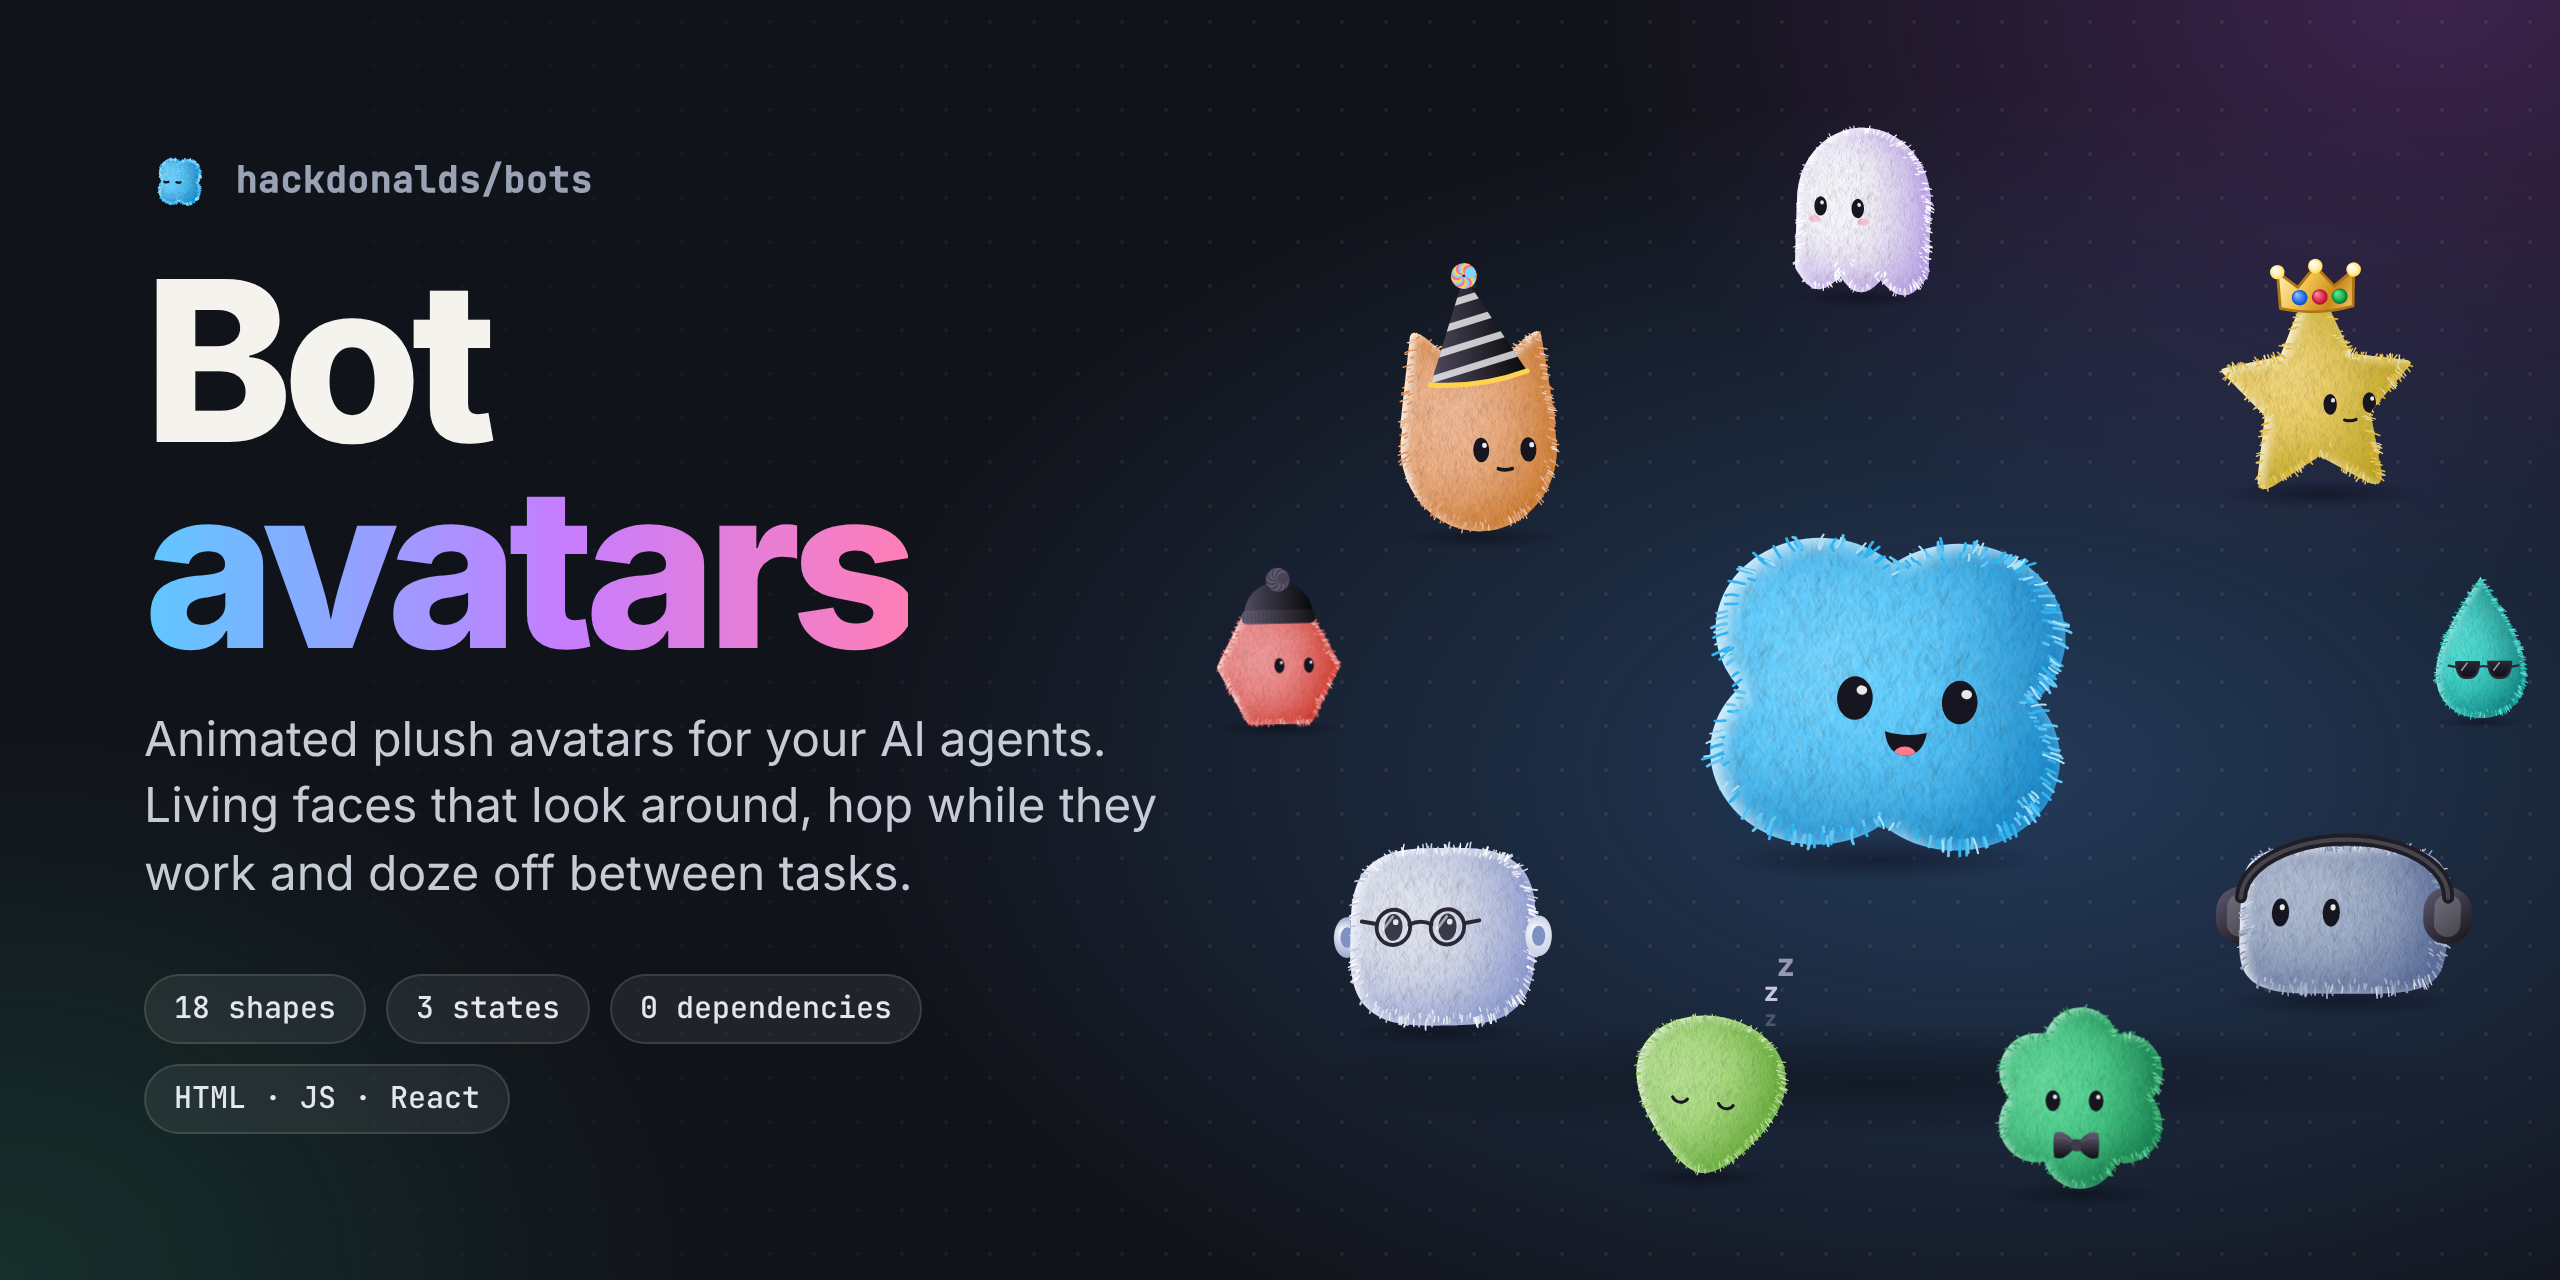
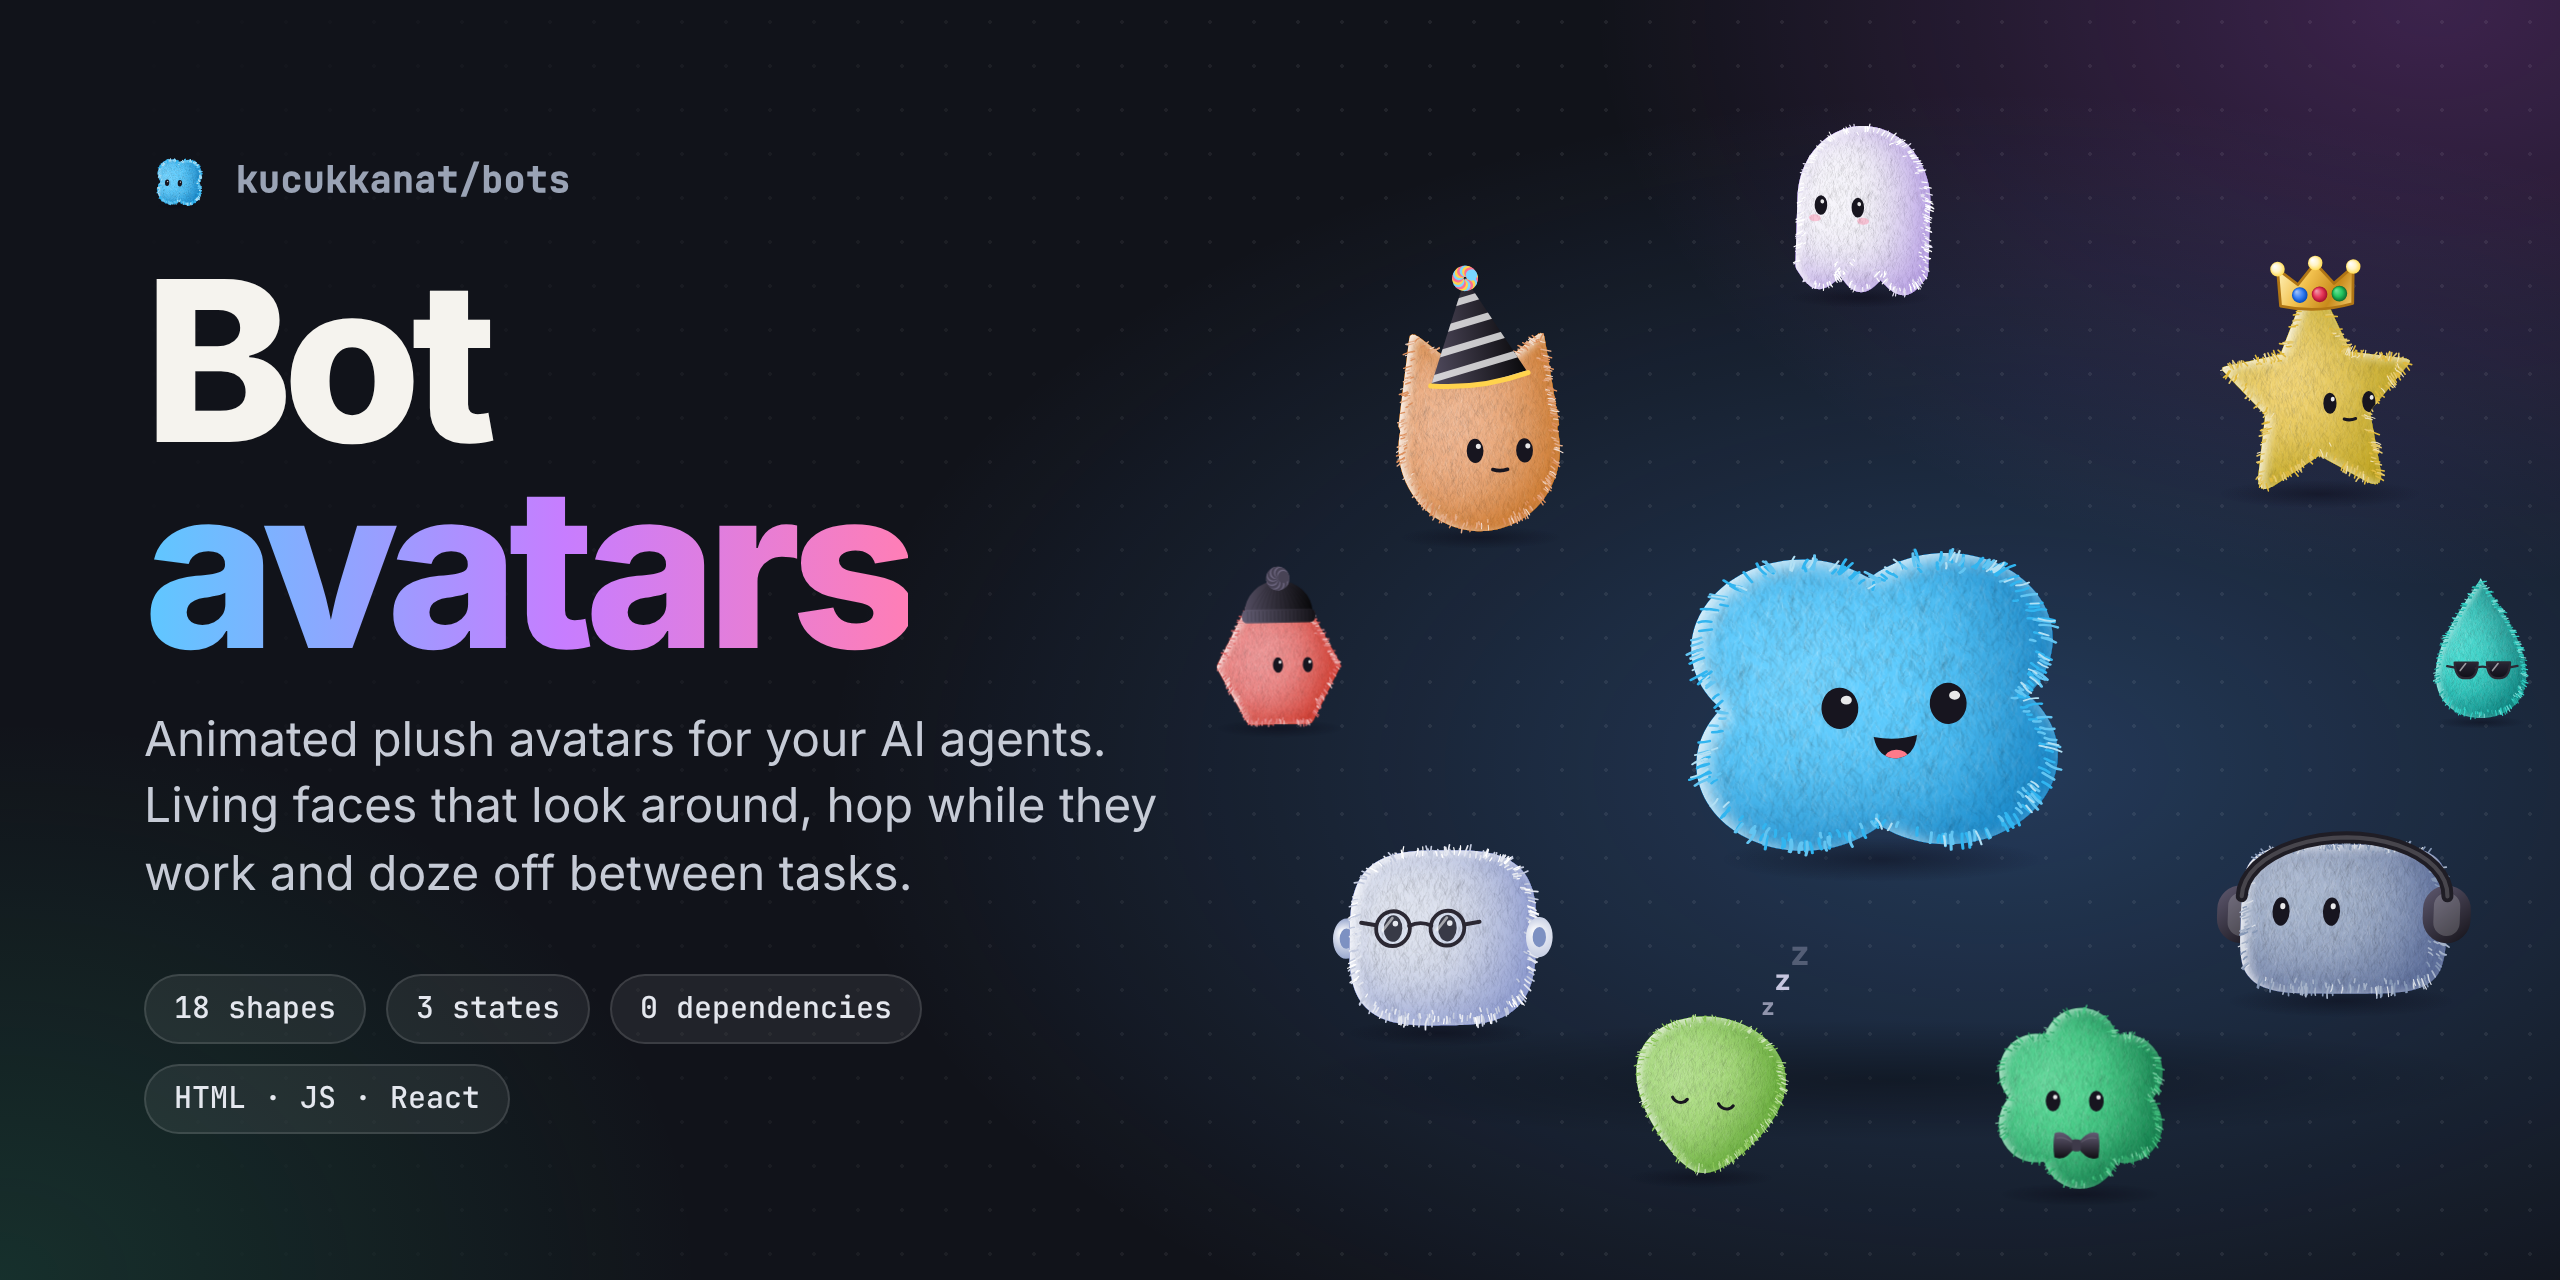
Hero poster: show kucukkanat/bots
Claude-Session: https://claude.ai/code/session_019Vu7miSCbP2CRpf5m4ELc3

diff --git a/docs/poster.html b/docs/poster.html
@@ -37,7 +37,7 @@
 <body>
   <div class="floor"></div>
   <div class="copy">
-    <div class="brand"><bot-avatar type="clover" size="34" interactive="false"></bot-avatar> hackdonalds/bots</div>
+    <div class="brand"><bot-avatar type="clover" size="34" interactive="false"></bot-avatar> kucukkanat/bots</div>
     <h1>Bot<br /><span>avatars</span></h1>
     <p>Animated plush avatars for your AI agents. Living faces that look around, hop while they work and doze off between tasks.</p>
     <div class="chips">
